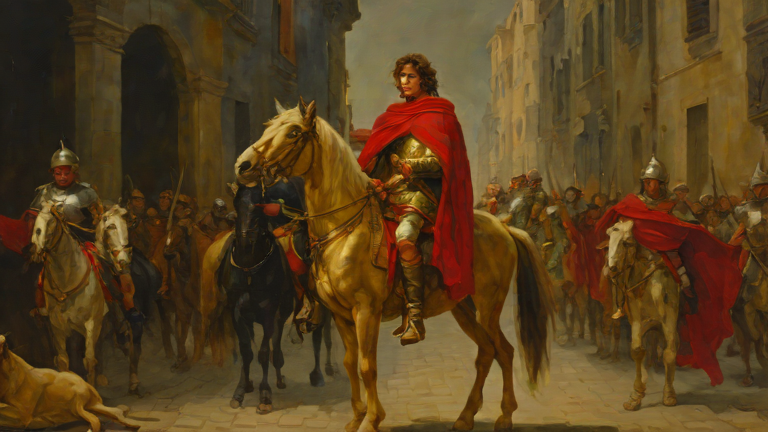
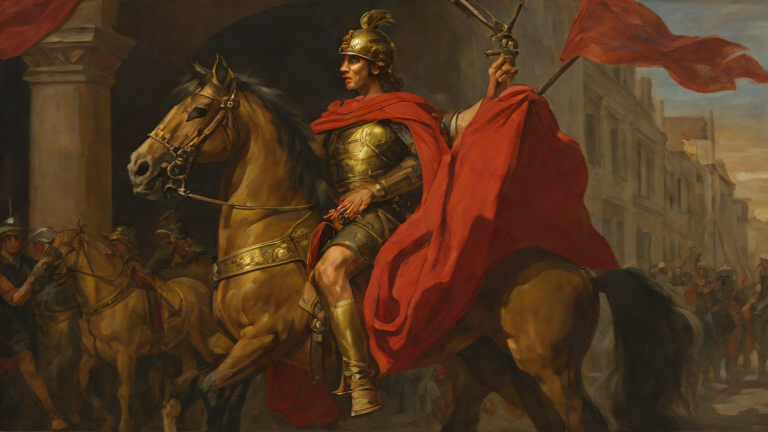
Pilot: fix period-accurate people in scenes, split meeting scene into two shots
Claude-Session: https://claude.ai/code/session_018bKzEs5fyT7pimMw4gNPVK

diff --git a/channel/tools/gen_variants.py b/channel/tools/gen_variants.py
@@ -1,0 +1,13 @@
+"""Generate N seed variants per prompt: python gen_variants.py prompts.json outdir N"""
+import sys, json, os, torch
+from diffusers import AutoPipelineForText2Image
+STYLE = ", dark dramatic classical oil painting, chiaroscuro, Rembrandt lighting, deep shadows, visible brushstrokes, museum masterpiece, muted earthy palette"
+NEG = "medieval, plate armor, knight, modern clothes, coat, boots, turban, deformed face, extra people"
+prompts = json.load(open(sys.argv[1])); out = sys.argv[2]; n = int(sys.argv[3])
+torch.set_num_threads(os.cpu_count())
+pipe = AutoPipelineForText2Image.from_pretrained("stabilityai/sdxl-turbo", torch_dtype=torch.float32)
+for key, p in prompts.items():
+    for s in range(n):
+        img = pipe(prompt=p + STYLE, num_inference_steps=4, guidance_scale=0.0, width=768, height=432,
+                   generator=torch.Generator().manual_seed(7000 + 31 * s)).images[0]
+        img.save(f"{out}/{key}_{s}.png"); print("saved", key, s, flush=True)
